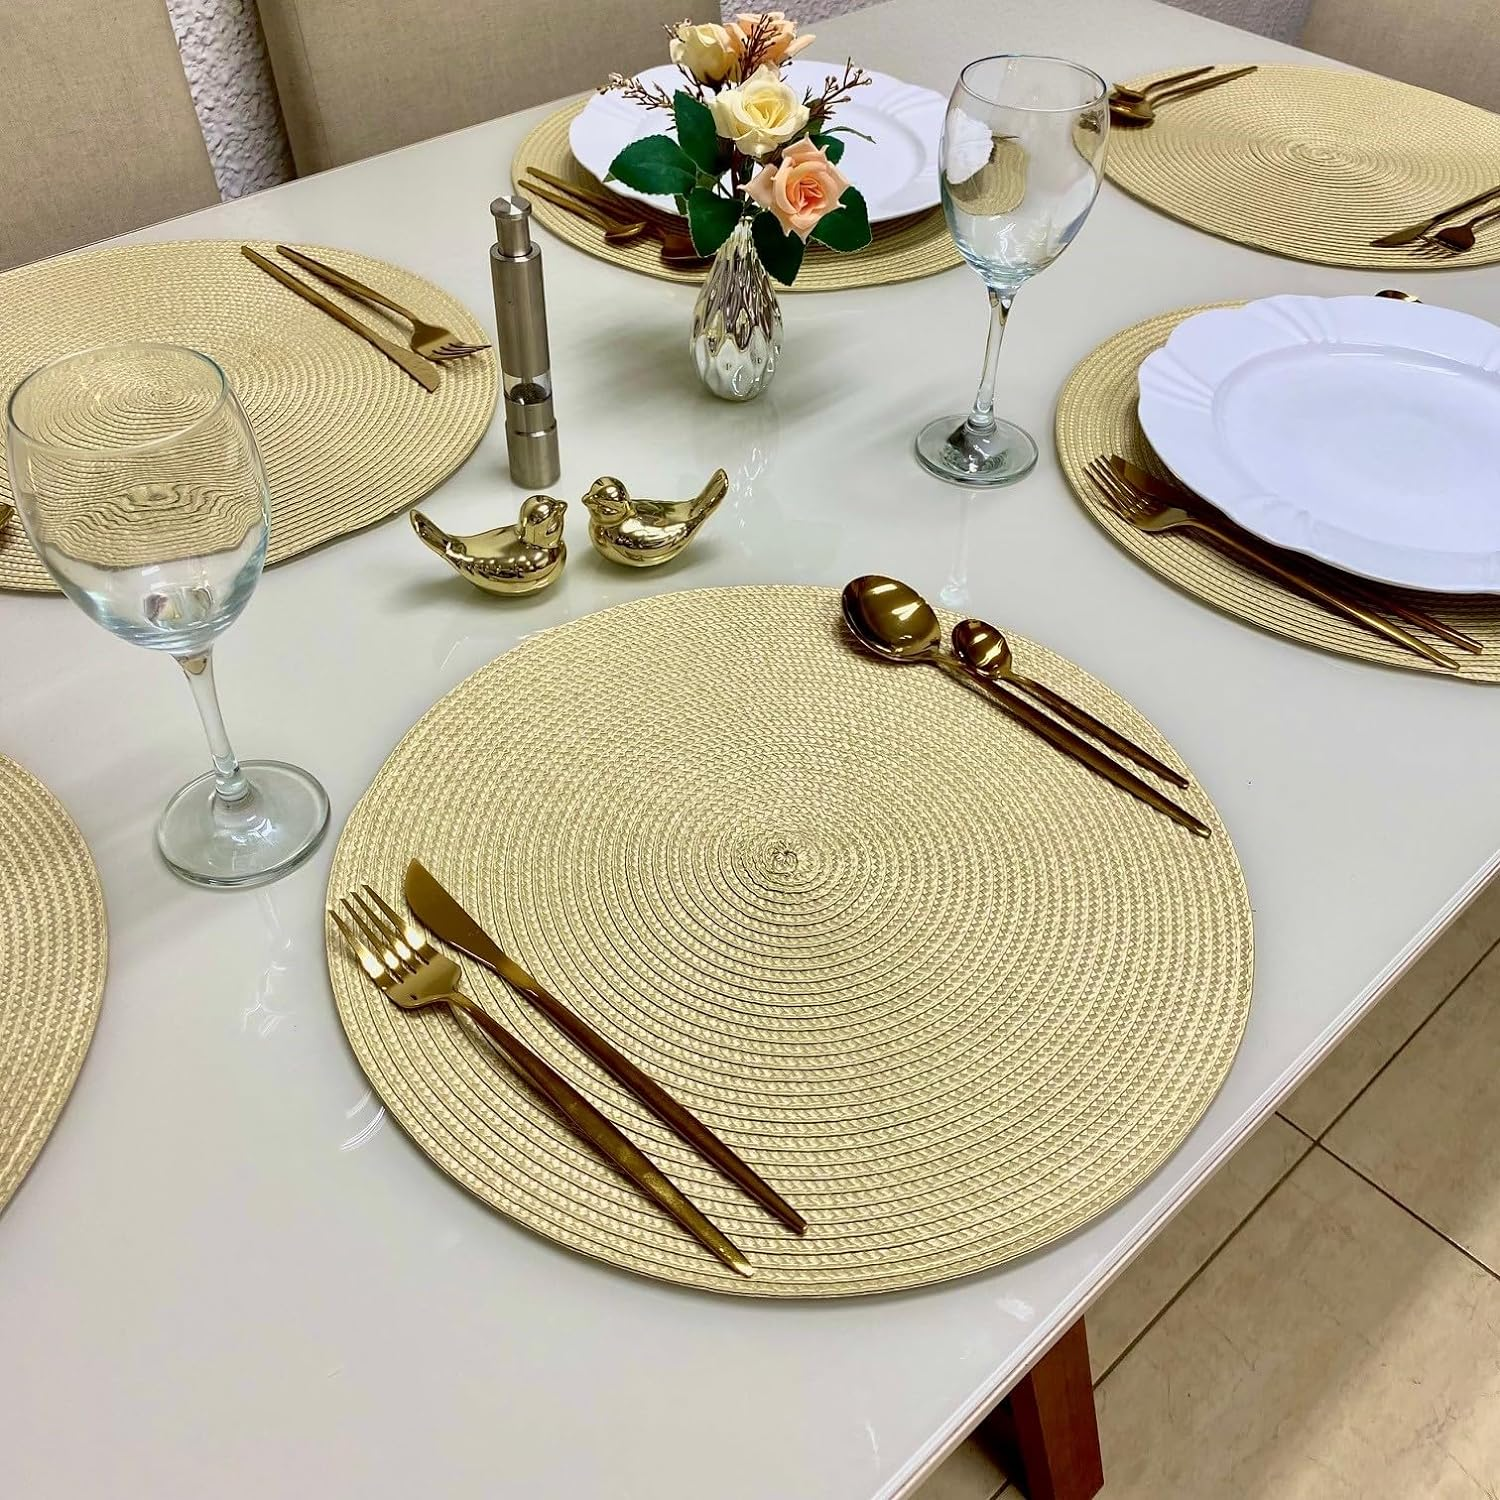
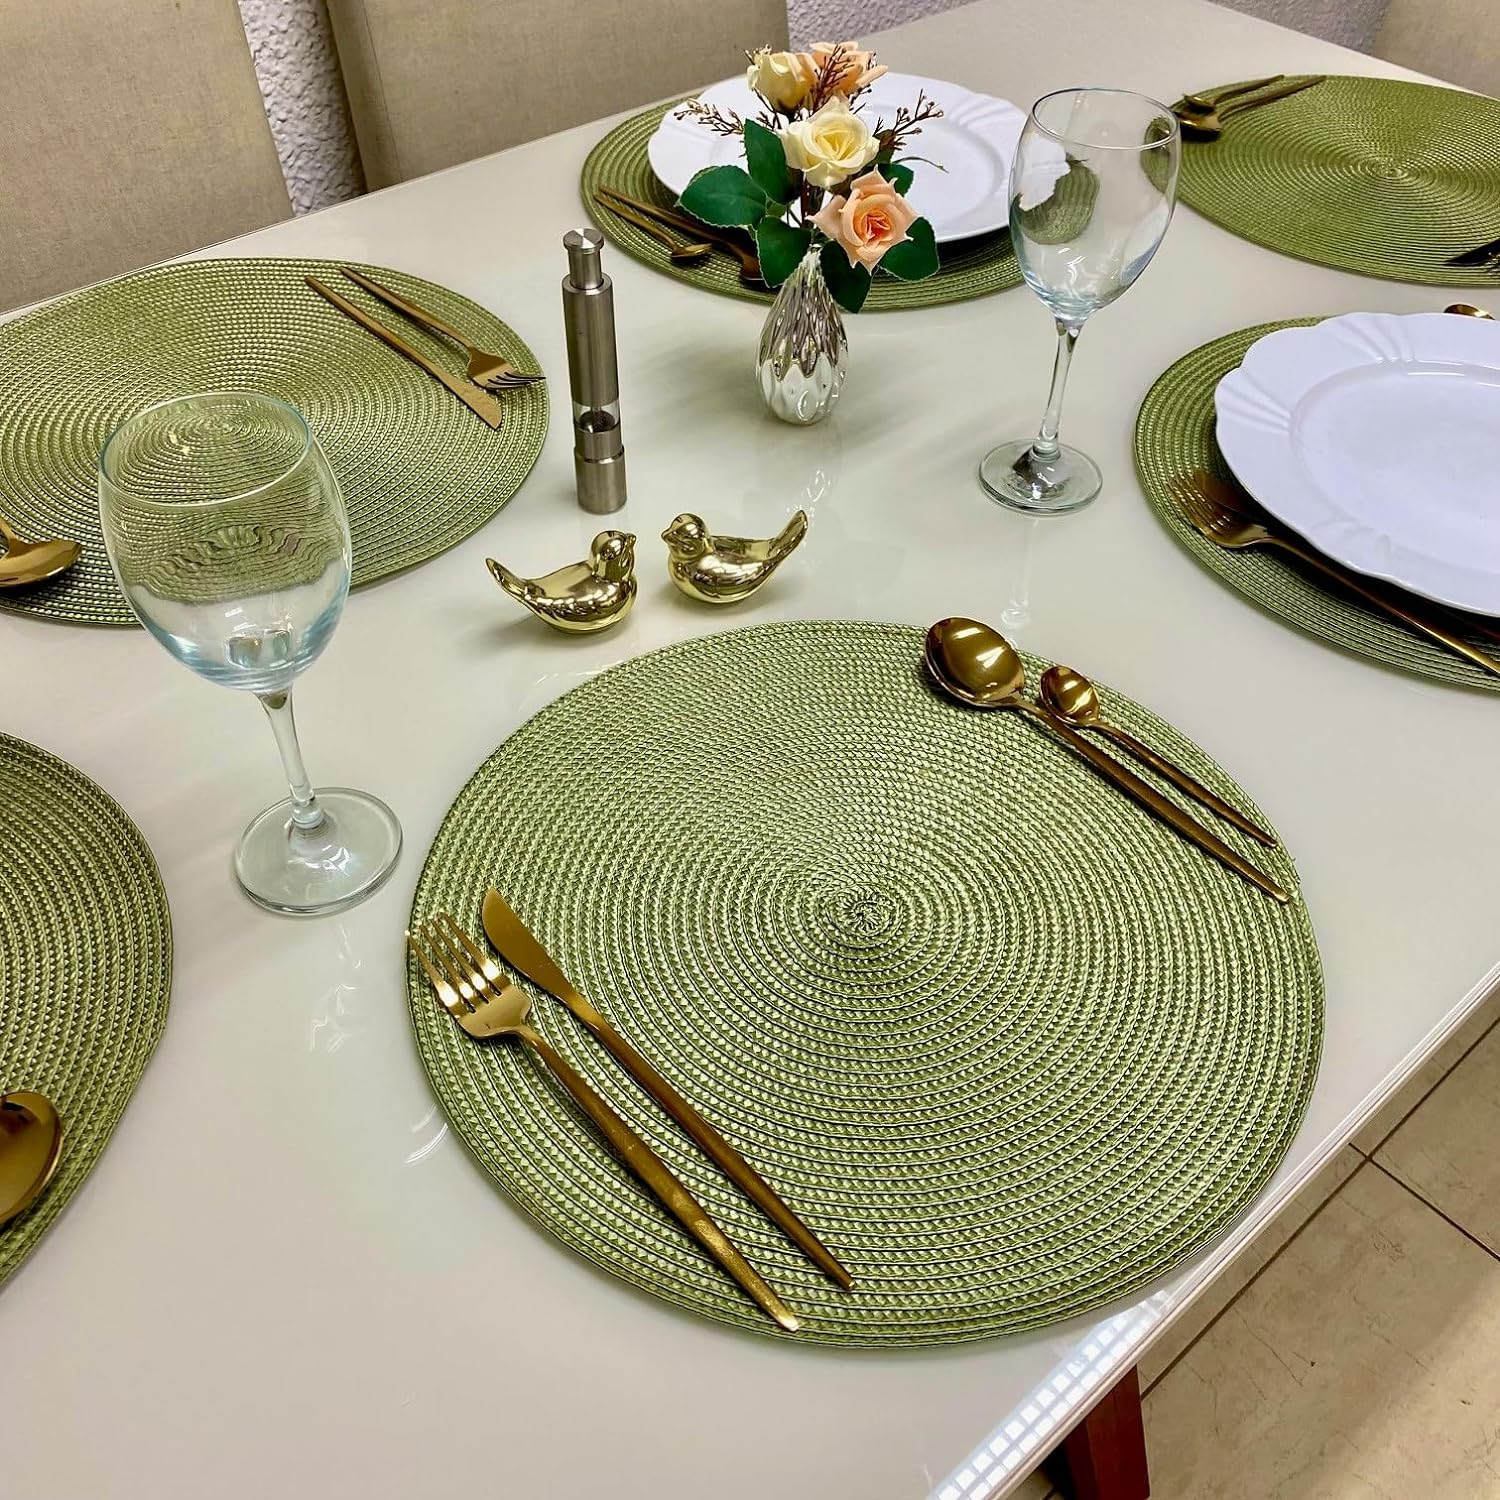
a

diff --git a/index.html b/index.html
@@ -250,21 +250,31 @@
             </div>                    
             <div>
                 <img src="imagens/jogo-americano.jpg" alt="img">
-                <p>Jogo Americano 6 Peças </p>
+                <p>Jogo Americano Bege </p>
                 
                 <a href="https://www.amazon.com.br/dp/B0BYTKF922/?coliid=I34NYF3Z1H4YCP&colid=3AYDJMGZSB1AA&psc=1&ref_=list_c_wl_lv_ov_lig_dp_it" target="_blank"><input type="button" value="Comprar" class="botao"></a>
             </div>
             <div>
                 <img src="imagens/americano-redondo.jpg" alt="img">
-                <p>Jogo Americano Redondo </p>
-                <a href="https://www.amazon.com.br/dp/B0CJYHPXD7/?coliid=I2XXS0DVZHSWEU&colid=3AYDJMGZSB1AA&psc=1&ref_=list_c_wl_lv_ov_lig_dp_it" target="_blank"><input type="button" value="Comprar" class="botao"></a>
-            </div>        
+                <p>Jogo Americano Verde </p>
+                <a href="https://www.amazon.com.br/dp/B0CJYHXCRH/?coliid=I8412522NUQU5&colid=3AYDJMGZSB1AA&ref_=list_c_wl_lv_ov_lig_dp_it_im&th=1" target="_blank"><input type="button" value="Comprar" class="botao"></a>
+            </div> 
             <div>
+                <img src="imagens/jogo-americano2.jpg" alt="img">
+                <p>Jogo Americano Branco </p>
+                <a href="https://www.amazon.com.br/dp/B0BYTK2T8K/?coliid=I1C25NAZMG1KS9&colid=3AYDJMGZSB1AA&psc=1&ref_=list_c_wl_lv_ov_lig_dp_it" target="_blank"><input type="button" value="Comprar" class="botao"></a>
+            </div> 
+            <div>
+                <img src="imagens/americano2.jpg" alt="img">
+                <p>Jogo Americano Rosê </p>
+                <a href="https://www.amazon.com.br/dp/B0BLBG9685/?coliid=IWIICKULKD6VB&colid=3AYDJMGZSB1AA&ref_=list_c_wl_lv_ov_lig_dp_it&th=1" target="_blank"><input type="button" value="Comprar" class="botao"></a>
+            </div>        
+            <!--<div>
                 <img src="imagens/sushi.jpg" alt="img">
                 <p>Pratos de Sushi </p>
                 
                 <a href="https://www.amazon.com.br/dp/B0CJZJYQT6/?coliid=I1SJAHJCF0XVN9&colid=3AYDJMGZSB1AA&psc=1&ref_=list_c_wl_lv_ov_lig_dp_it" target="_blank"><input type="button" value="Comprar" class="botao"></a>
-            </div>           
+            </div>   -->        
             <div>
                 <img src="imagens/pratos-cristal-wolff.jpg" alt="img">
                 <p>Conjunto Pratos de Cristal </p>
@@ -297,11 +307,6 @@
                 <img src="imagens/utensilios.jpg" alt="img">
                 <p>Jogo de Utensílios Cozinha </p>
                 <a href="https://www.amazon.com.br/dp/B0BXQM66XR/?coliid=I2I1E2V3C6M8Q8&colid=3AYDJMGZSB1AA&psc=1&ref_=list_c_wl_lv_ov_lig_dp_it" target="_blank"><input type="button" value="Comprar" class="botao"></a>
-            </div>
-            <div>
-                <img src="imagens/moedor-pimenta.jpg" alt="img">
-                <p>Moedor Sal e Pimenta</p>
-                <a href="comprado.html" ><input type="button" value="Comprar" class="botao"></a>
             </div>
             <div>
                 <img src="imagens/acucareiro.jpg" alt="img">
